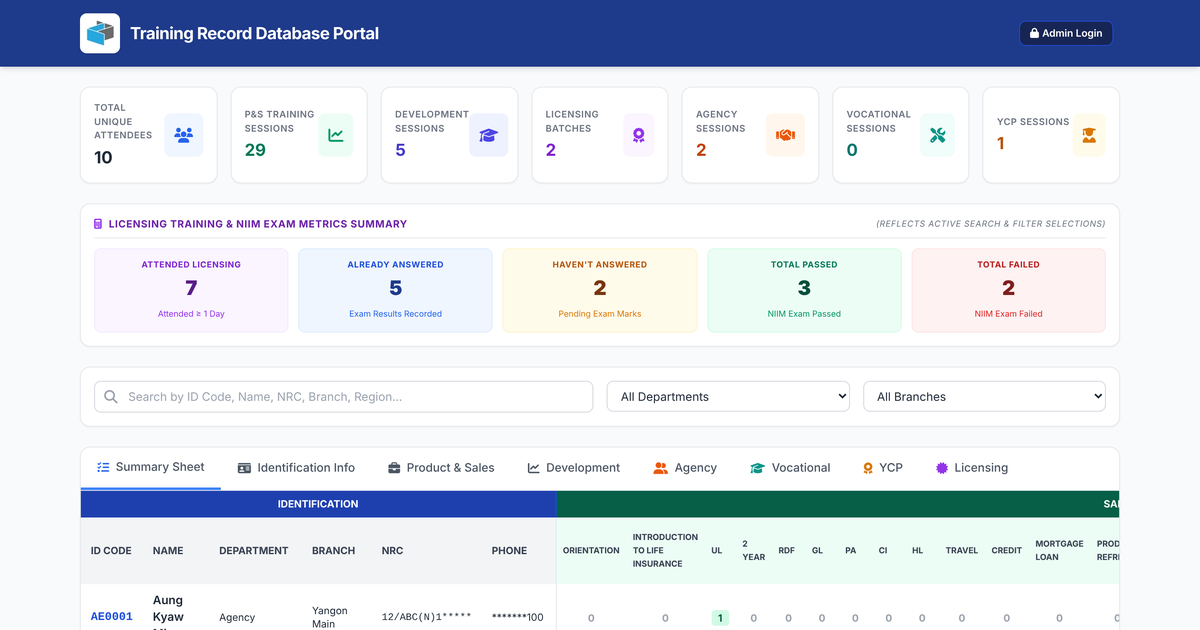
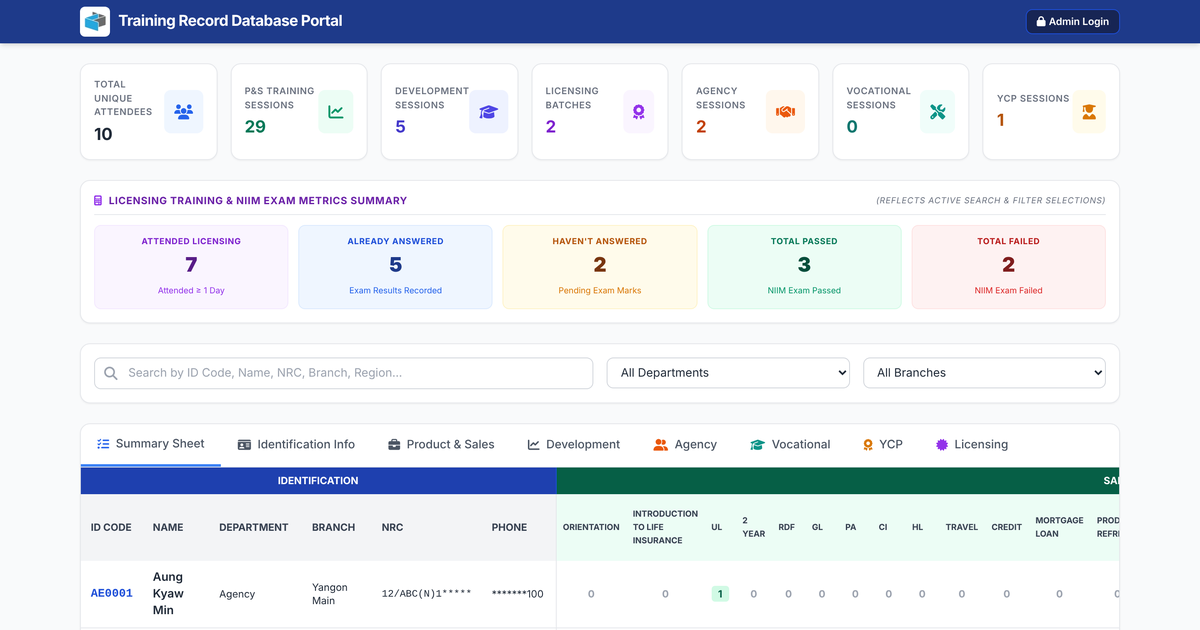
Header: compact three-part layout
- Title on one line, smaller icon and padding
- Admin tools centred; account and Log out (or Admin Login) on the right
- On narrow screens: title and account on top, tools centred below

Claude-Session: https://claude.ai/code/session_01XgdbdWid3zbeiCmMZvsAbn

diff --git a/index.html b/index.html
@@ -96,40 +96,34 @@
 
     <!-- Top Navigation Header -->
     <header class="bg-blue-900 text-white shadow-md">
-        <div class="max-w-7xl mx-auto px-4 py-4 flex flex-col md:flex-row justify-between items-center gap-4">
-            <div class="flex items-center space-x-3 select-none">
-                <div class="bg-white p-1.5 rounded-lg shadow-sm">
-                    <img src="assets/kbz-icon.png" alt="KBZ LIFE Insurance" style="height:36px;width:36px;display:block">
+        <!-- Left: logo + title | Center: admin tools | Right: account + log out -->
+        <div class="max-w-7xl mx-auto px-4 py-2 flex flex-wrap items-center justify-between gap-x-4 gap-y-2">
+            <div class="order-1 flex items-center gap-2.5 select-none shrink-0">
+                <div class="bg-white p-1 rounded-md shadow-sm">
+                    <img src="assets/kbz-icon.png" alt="KBZ LIFE Insurance" style="height:28px;width:28px;display:block">
                 </div>
-                <div>
-                    <h1 class="text-xl font-bold tracking-tight">Training Record Database Portal</h1>
-                </div>
+                <h1 class="text-base sm:text-lg font-bold tracking-tight whitespace-nowrap">Training Record Database Portal</h1>
             </div>
 
-            <!-- Role Switcher & Action Buttons -->
-            <div class="flex flex-wrap items-center gap-2">
-                <div id="authArea" class="flex items-center gap-2 mr-2"></div>
+            <div id="authArea" class="order-2 lg:order-3 ml-auto flex items-center gap-2 shrink-0"></div>
 
-                <div id="adminActionGroup" class="hidden flex flex-wrap items-center gap-2">
-                    <button type="button" onclick="triggerCSVImport()" class="bg-amber-600 hover:bg-amber-500 text-white px-3 py-2 rounded-lg text-xs font-medium flex items-center gap-1.5 transition cursor-pointer shadow" title="Upload Excel (.xlsx) or CSV attendance file">
-                        <i class="fa-solid fa-file-import"></i> Import Excel / CSV
-                    </button>
-                    <input type="file" id="csvFileInput" accept=".xlsx,.xls,.csv" onchange="handleCSVFile(event)" class="hidden">
-                    
-                    <button type="button" onclick="openDuplicateAuditModal()" class="bg-teal-700 hover:bg-teal-600 text-white px-3 py-2 rounded-lg text-xs font-medium flex items-center gap-1.5 transition cursor-pointer shadow">
-                        <i class="fa-solid fa-wand-magic-sparkles"></i> Audit Typos
-                    </button>
-
-                    <button type="button" onclick="openSettingsModal()" class="bg-blue-800 hover:bg-blue-700 text-white px-3 py-2 rounded-lg text-xs font-medium flex items-center gap-1.5 transition cursor-pointer shadow">
-                        <i class="fa-solid fa-gear"></i> Settings
-                    </button>
-                    <button type="button" onclick="openAddEmployeeModal()" class="bg-emerald-600 hover:bg-emerald-500 text-white px-3.5 py-2 rounded-lg text-xs font-medium flex items-center gap-1.5 shadow transition cursor-pointer">
-                        <i class="fa-solid fa-user-plus"></i> Add Employee
-                    </button>
-                    <button type="button" onclick="exportToExcel()" class="bg-emerald-700 hover:bg-emerald-600 text-white px-3.5 py-2 rounded-lg text-xs font-medium flex items-center gap-1.5 transition cursor-pointer shadow">
-                        <i class="fa-solid fa-file-excel text-emerald-200"></i> Export Excel
-                    </button>
-                </div>
+            <div id="adminActionGroup" class="hidden order-3 lg:order-2 w-full lg:w-auto lg:flex-1 flex flex-wrap items-center justify-center gap-2">
+                <button type="button" onclick="triggerCSVImport()" class="bg-amber-600 hover:bg-amber-500 text-white px-3 py-1.5 rounded-lg text-xs font-medium flex items-center gap-1.5 transition cursor-pointer shadow whitespace-nowrap" title="Upload Excel (.xlsx) or CSV attendance file">
+                    <i class="fa-solid fa-file-import"></i> Import Excel / CSV
+                </button>
+                <input type="file" id="csvFileInput" accept=".xlsx,.xls,.csv" onchange="handleCSVFile(event)" class="hidden">
+                <button type="button" onclick="openDuplicateAuditModal()" class="bg-teal-700 hover:bg-teal-600 text-white px-3 py-1.5 rounded-lg text-xs font-medium flex items-center gap-1.5 transition cursor-pointer shadow whitespace-nowrap">
+                    <i class="fa-solid fa-wand-magic-sparkles"></i> Audit Typos
+                </button>
+                <button type="button" onclick="openSettingsModal()" class="bg-blue-800 hover:bg-blue-700 text-white px-3 py-1.5 rounded-lg text-xs font-medium flex items-center gap-1.5 transition cursor-pointer shadow whitespace-nowrap">
+                    <i class="fa-solid fa-gear"></i> Settings
+                </button>
+                <button type="button" onclick="openAddEmployeeModal()" class="bg-emerald-600 hover:bg-emerald-500 text-white px-3 py-1.5 rounded-lg text-xs font-medium flex items-center gap-1.5 transition cursor-pointer shadow whitespace-nowrap">
+                    <i class="fa-solid fa-user-plus"></i> Add Employee
+                </button>
+                <button type="button" onclick="exportToExcel()" class="bg-emerald-700 hover:bg-emerald-600 text-white px-3 py-1.5 rounded-lg text-xs font-medium flex items-center gap-1.5 transition cursor-pointer shadow whitespace-nowrap">
+                    <i class="fa-solid fa-file-excel text-emerald-200"></i> Export Excel
+                </button>
             </div>
         </div>
     </header>
@@ -789,8 +783,8 @@
             if (!supabaseClient) {
                 el.innerHTML = `<span class="text-xs text-blue-200 bg-blue-950 px-2 py-1 rounded"><i class="fa-solid fa-plug-circle-xmark mr-1"></i>Offline</span>`;
             } else if (window.authUser) {
-                el.innerHTML = `<span class="text-xs text-blue-100 bg-blue-950 border border-blue-800 px-2.5 py-1.5 rounded-lg"><i class="fa-solid fa-user-shield mr-1"></i>${escapeHtml(window.authUser.email)}</span>
-                    <button type="button" onclick="logout()" class="bg-blue-950 hover:bg-red-700 border border-blue-800 text-white px-3 py-1.5 rounded-lg text-xs font-medium cursor-pointer"><i class="fa-solid fa-right-from-bracket mr-1"></i>Log out</button>`;
+                el.innerHTML = `<span class="text-xs text-blue-100 bg-blue-950 border border-blue-800 px-2.5 py-1.5 rounded-lg whitespace-nowrap max-w-[220px] truncate" title="${escapeHtml(window.authUser.email)}"><i class="fa-solid fa-user-shield mr-1"></i>${escapeHtml(window.authUser.email)}</span>
+                    <button type="button" onclick="logout()" class="bg-blue-950 hover:bg-red-700 border border-blue-800 text-white px-3 py-1.5 rounded-lg text-xs font-medium cursor-pointer whitespace-nowrap"><i class="fa-solid fa-right-from-bracket mr-1"></i>Log out</button>`;
             } else {
                 el.innerHTML = `<button type="button" onclick="openLoginModal()" class="bg-blue-950 hover:bg-blue-800 border border-blue-700 text-white px-3 py-1.5 rounded-lg text-xs font-semibold cursor-pointer"><i class="fa-solid fa-lock mr-1"></i>Admin Login</button>`;
             }
